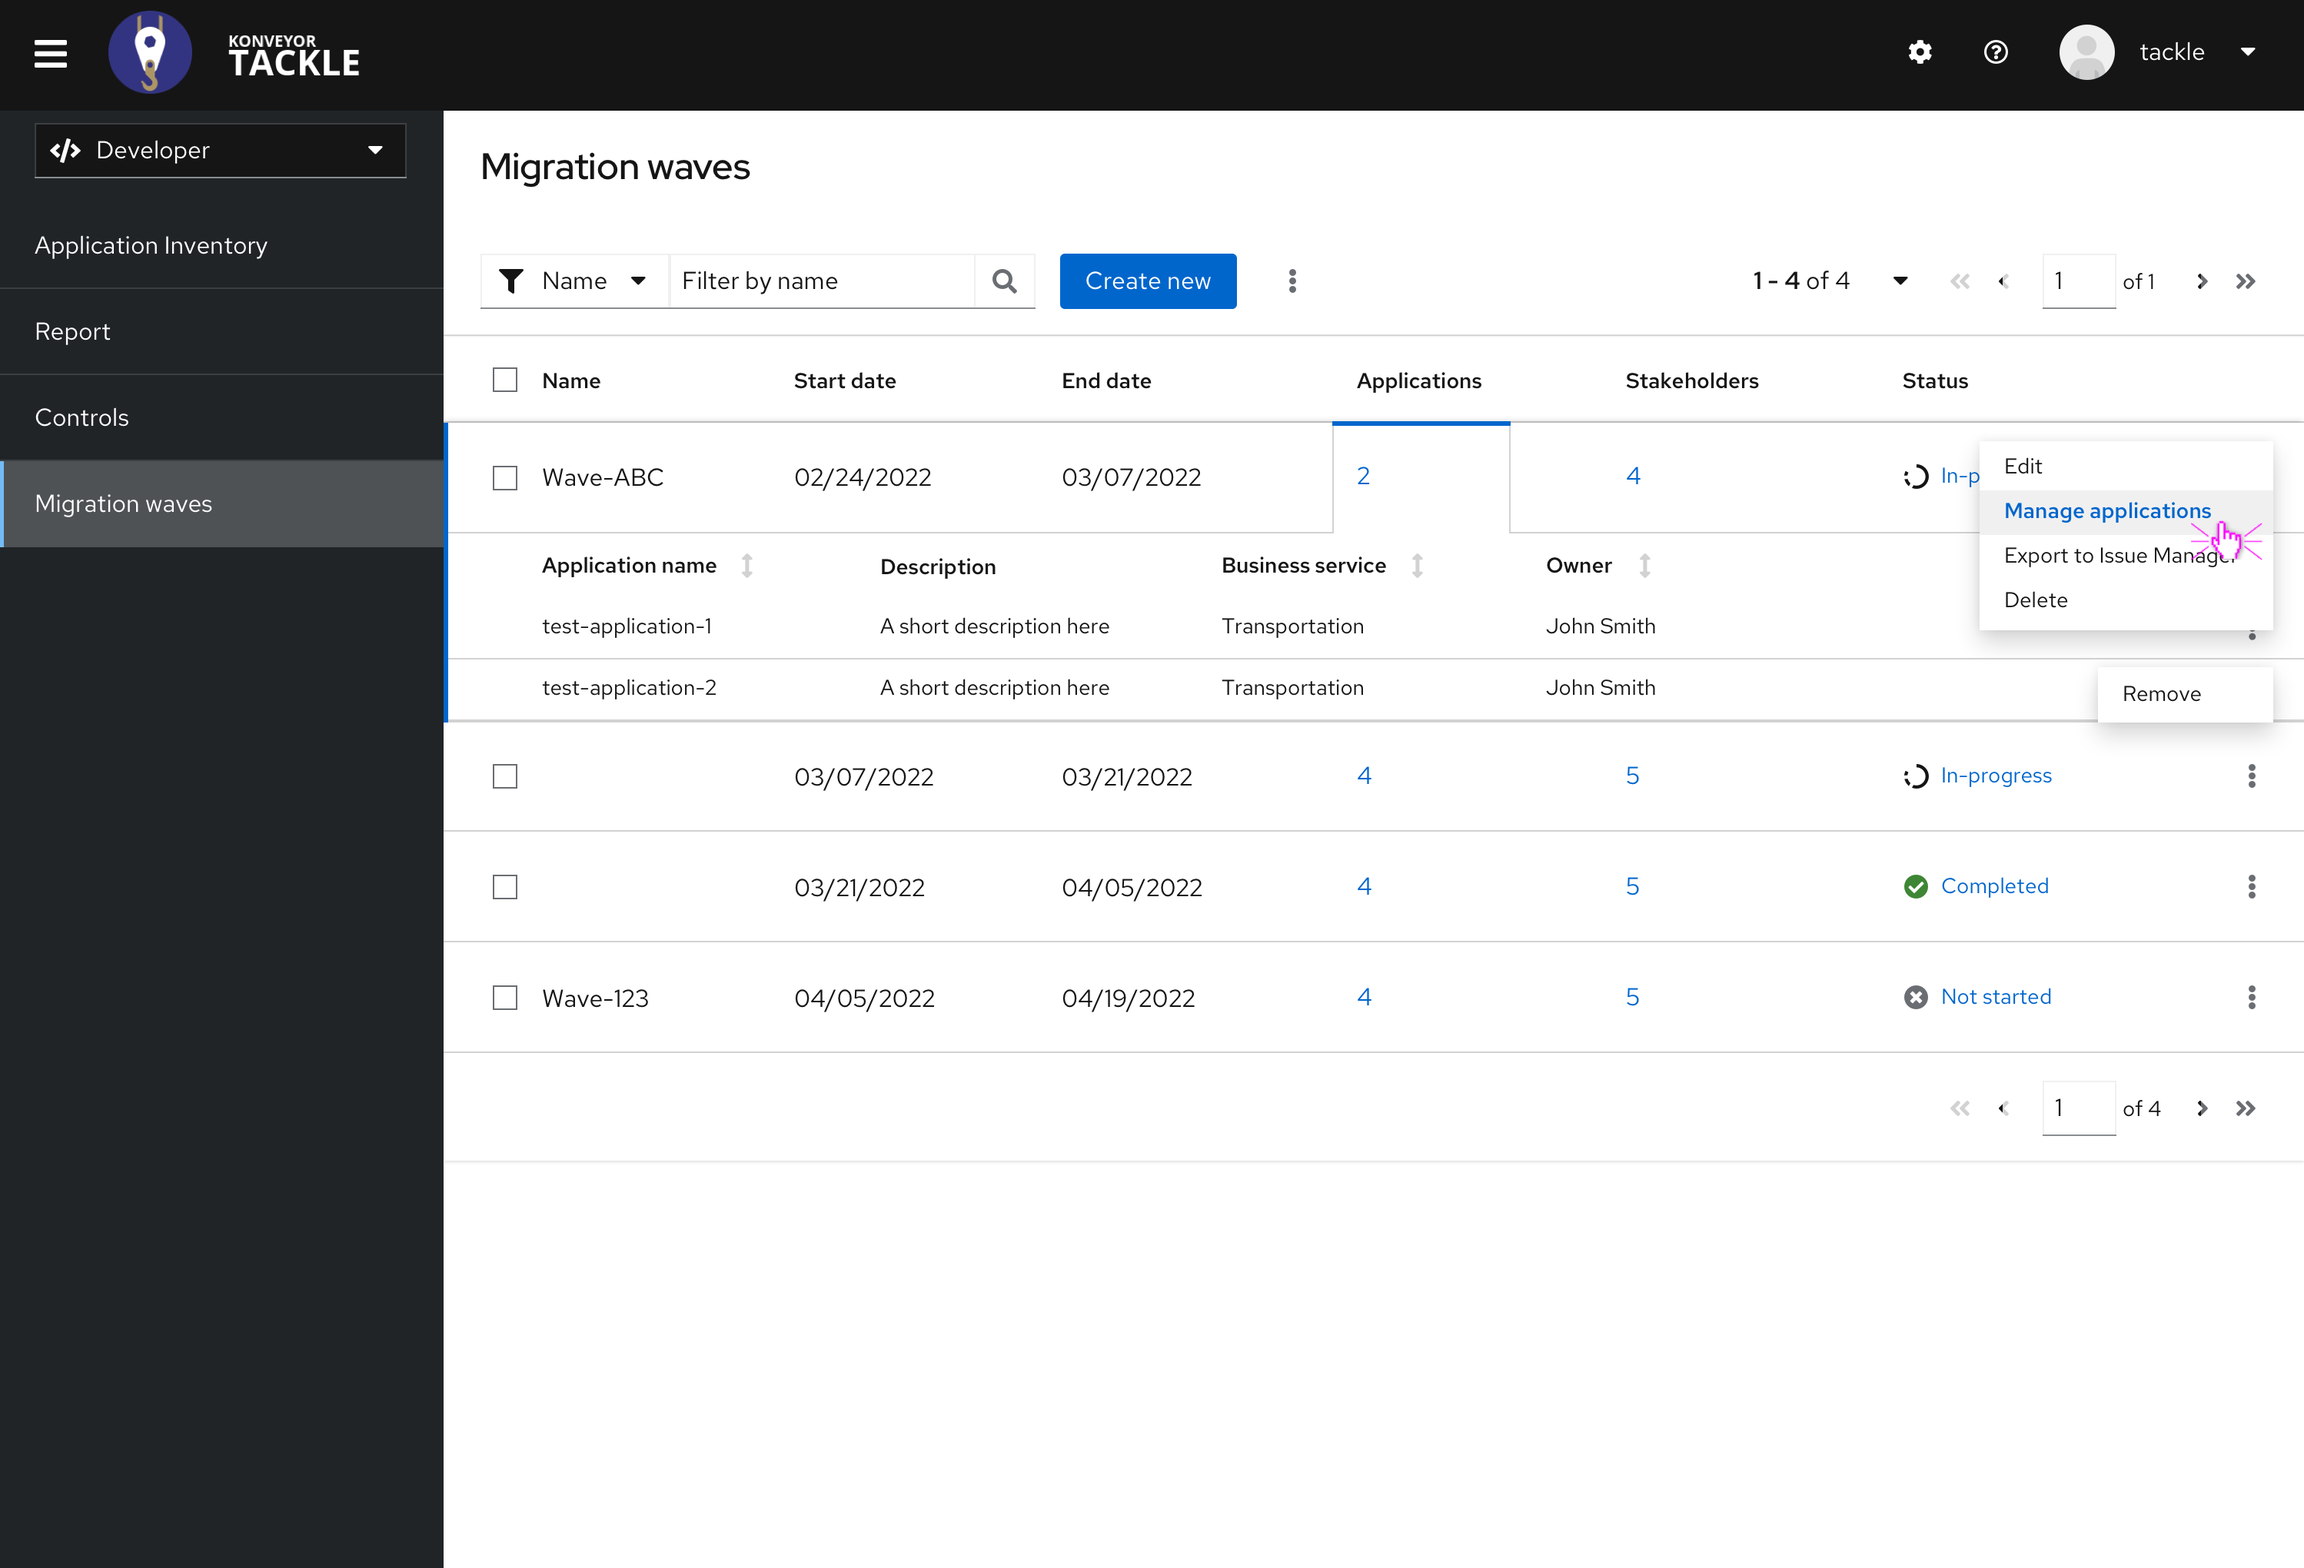
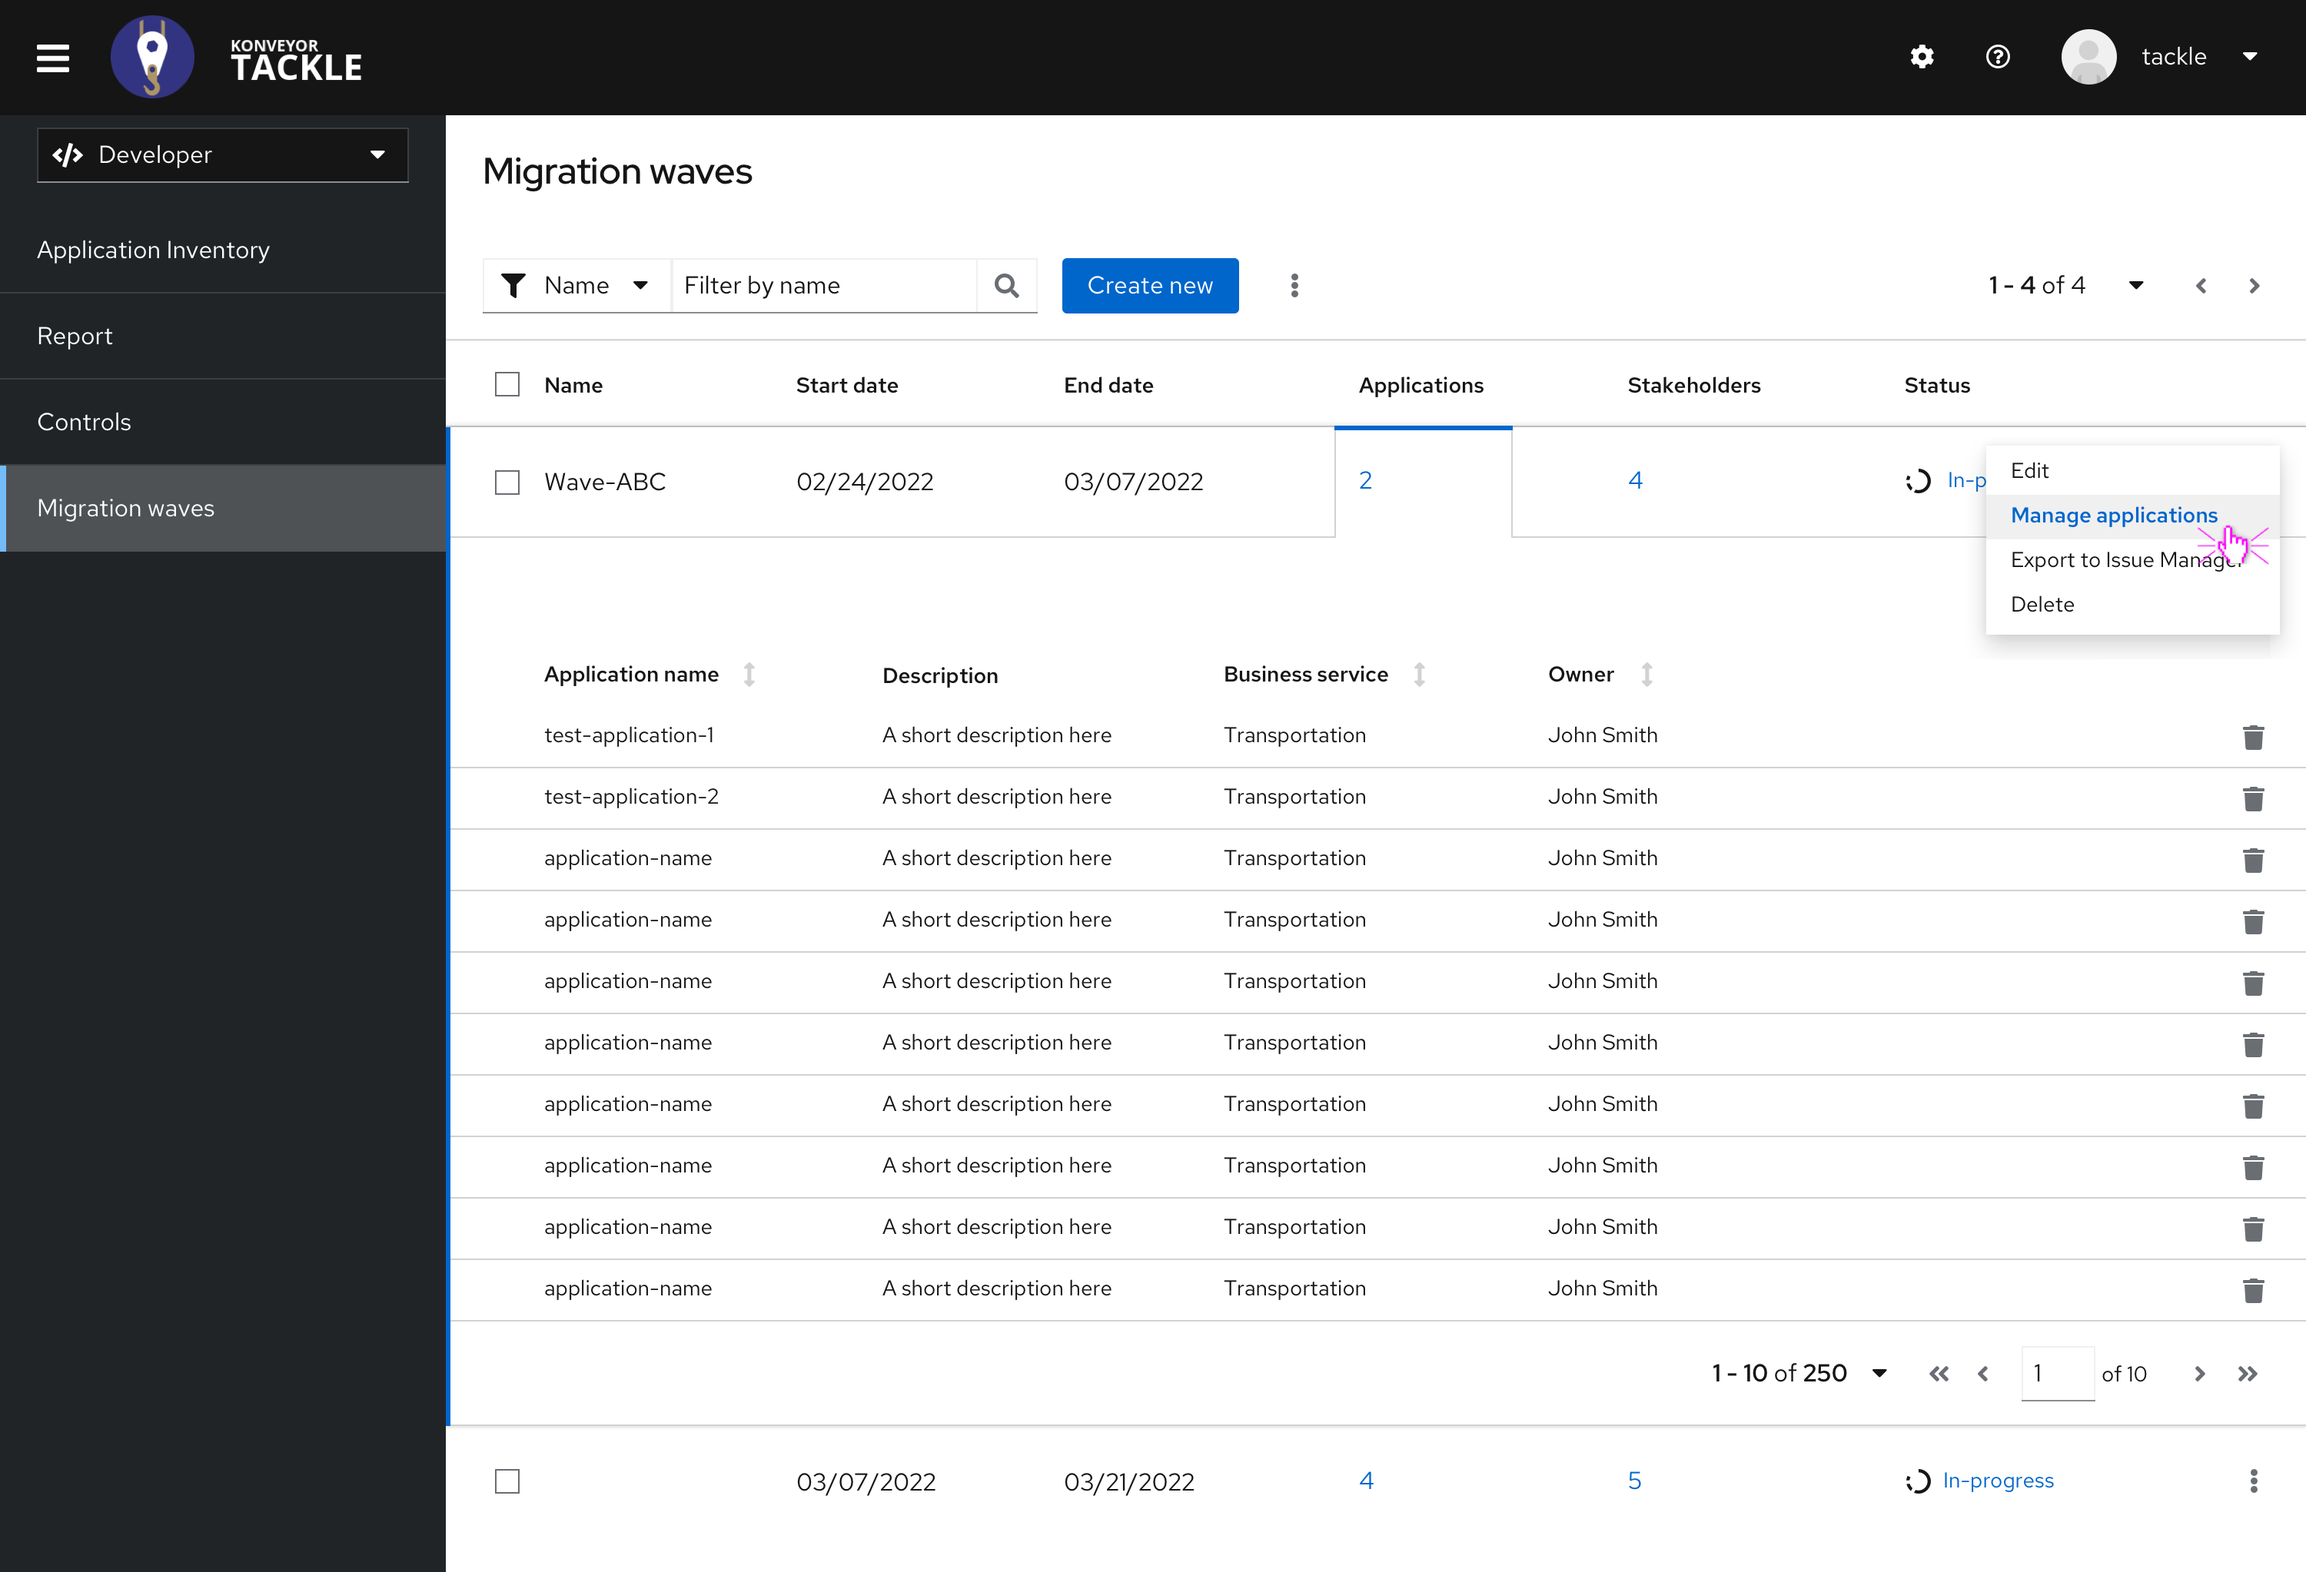
Updated mockups for the Migration Waves view and refined specification

diff --git a/enhancements/migration-waves/README.md b/enhancements/migration-waves/README.md
@@ -6,10 +6,11 @@ reviewers:
   - "@jortel"
   - "@mansam"
   - "@jwmatthews"
+  - "@ibolton336"
 approvers:
   - "jortel"
 creation-date: 2022-12-16
-last-updated: 2022-12-16
+last-updated: 2023-02-03
 status: provisional
 see-also:
   - "[tackle-jira-integration](https://github.com/konveyor/enhancements/pull/85)"   
@@ -31,7 +32,7 @@ superseded-by:
 
 ## Open Questions
 
-- What happens with the "*Status*" compound expandable section of the Migration Waves view if no issue tracker is enabled?(See [tackle-jira-integration](https://github.com/konveyor/enhancements/pull/85))
+- ~~What happens with the "*Status*" compound expandable section of the Migration Waves view if no issue tracker is enabled?(See [tackle-jira-integration](https://github.com/konveyor/enhancements/pull/85))~~ **The "Status" section will only be displayed if there is at least one Issue Manager instance configured in the Konveyor instance**
 - What format will be used to load stakeholders that don't exist in the CSV import?
 
 ## Summary
@@ -69,7 +70,7 @@ A technical lead for the migration project that can create and modify applicatio
 
 #### Project Manager
 
-**New persona to create in Konveyor with this enhancement**. A management lead for the migration project that can create and modify migration waves but can only assign an owner and contributors to an application and applications to waves in the application inventory.
+**New persona to create in Konveyor with this enhancement**. A management lead for the migration project that can create and modify migration waves and assign applications to them but can only assign an owner and contributors to an application in the application inventory.
 
 
 ### User Stories
@@ -78,12 +79,12 @@ A technical lead for the migration project that can create and modify applicatio
 
 ##### AOC001
 
-*As an Architect and a Project Manager I want to be able to associate a stakeholder to an application as its owner*
+*As an Architect or a Project Manager I want to be able to associate a stakeholder to an application as its owner*
 
 
 ##### AOC002
 
-*As an Architect and a Project Manager I want to be able to associate stakeholders to an application as contributors*
+*As an Architect or a Project Manager I want to be able to associate stakeholders to an application as contributors*
 
 
 #### Migration Waves Management
@@ -163,7 +164,7 @@ The application creation view will include two new fields:
 ![Application Creation view](images/app-edition-fields.png?raw=true "Application Creation view")
 
 
-It is important to note that Project Managers should only be able to edit the Owner and Contributor fields, and the rest of the fields should appear disabled. Architects will have full access.
+It is important to note that **Project Managers should only be able to edit the Owner and Contributor fields, and the rest of the fields should appear disabled**. Architects will have full access.
 
 
 #### Migration Waves Management
@@ -191,7 +192,7 @@ A new option "*Migration Waves*" will be included in the left menu for the Devel
 - **Name**: Name of the migration wave. This field is optional and could appear empty.
 - **Start date**: Start date for the migration wave.
 - **End date**: End date for the migration wave.
-- **Application**: Compound expandable section with a nested table that includes the list of applications assigned to the migration wave. Each row will have a kebab menu with just one option, "*Remove*", to remove the application belonging to the row from the list of assigned applications to the migration wave. Each row will include the following fields from the application:
+- **Application**: Compound expandable section with a nested table that includes the list of applications assigned to the migration wave. Each row will have trashcan icon to remove the application belonging to the row from the list of assigned applications to the migration wave. Each row will include the following fields from the application:
   - *Application name*
   - *Description*
   - *Business service*
@@ -199,7 +200,7 @@ A new option "*Migration Waves*" will be included in the left menu for the Devel
 
 ![Migration Waves view - Applications](images/migration-waves-applications-compound.png?raw=true "Migration Waves view - Applications")
 
-- **Stakeholders**: Compound expandable section with a nested table that includes the list of stakeholders associated with a migration wave. This list will be automatically populated with all the owners and contributors to all the applications associated with the migration wave, and with any additional stakeholders that could have been associated directly to the migration wave on creation/edition or indirectly through the association of a determined stakeholder group. Just to clarify, **if a stakeholder group is associated to a migration wave on creation/edition, all of its members will appear in this list**. Each row will include the following fields:
+- **Stakeholders**: Compound expandable section with a nested table that includes the list of stakeholders associated with a migration wave. This list will be automatically populated with all the owners and contributors to all the applications assigned to the migration wave, and with any additional stakeholders that could have been associated directly to the migration wave on creation/edition or indirectly through the association of a determined stakeholder group. Just to clarify, **if a stakeholder group is associated to a migration wave on creation/edition, all of its members will appear in this list**. Each row will include the following fields:
 
   - *Name*
   - *Job Function*
@@ -209,7 +210,7 @@ A new option "*Migration Waves*" will be included in the left menu for the Devel
 
 ![Migration Waves view - Stakeholders](images/migration-waves-stakeholders-compound.png?raw=true "Migration Waves view - Stakeholders")
 
-- **Status**: Compound expandable section for the migration waves to reflect status data. This section is explained in depth in the related [tackle-jira-integration](https://github.com/konveyor/enhancements/pull/85) enhancement.
+- **Status**: Compound expandable section for the migration waves to reflect status data. This section is explained in depth in the related [tackle-jira-integration](https://github.com/konveyor/enhancements/pull/85) enhancement. **This section will only be displayed if there is at least one Issue Manager configured in the Konveyor instance**
 
 ![Migration Waves view - Status](images/migration-waves-status-compound.png?raw=true "Migration Waves view - Status")
 
@@ -225,8 +226,8 @@ New migration waves can be created by clicking on the button "Create new" at the
 - **Name**: Optional. String with the name of the wave.
 - **Start date**: Mandatory. Date picker.
 - **End date**: Mandatory. Date picker.
-- **Stakeholders**: Optional. Dropdown, multiple selection. Values will be the list of available stakeholders in the instance. Stakeholders to associate directly to the migration wave. When an application is assigned to a migration wave, all of its associated stakeholders get transitively associated to the wave. By associating them directly through this field, they will appear with no role in the Stakeholders compound expandable section.
-- **Stakeholder Groups**: Optional. Dropdown, multiple selection. Values will be the list of available stakeholder groups in the instance. Stakeholder groups to associate directly to the migration wave. By associating a Stakeholder Group to a migration wave through this field, all the associated stakeholders in the group will appear with no role in the Stakeholders compound expandable section.
+- **Stakeholders**: Optional. Dropdown, multiple selection. Values will be the list of available stakeholders in the instance. Stakeholders to associate directly to the migration wave. When an application is assigned to a migration wave, all of its associated stakeholders get transitively associated to the wave. By associating them directly through this field, they will appear with no role in the Stakeholders compound expandable section, unless they are transitively associated by an application, in which case the role will be displayed.
+- **Stakeholder Groups**: Optional. Dropdown, multiple selection. Values will be the list of available stakeholder groups in the instance. Stakeholder groups to associate directly to the migration wave. By associating a Stakeholder Group to a migration wave through this field, all the associated stakeholders in the group will appear with no role in the Stakeholders compound expandable section, unless they are transitively associated by an application, in which case the role will be displayed.
 
 ![Migration Waves view - Create wave](images/migration-waves-create.png?raw=true "Migration Waves view - Create wave")
 
@@ -256,7 +257,7 @@ Clicking in the option will open a modal window with a table displaying all appl
 
 ![Migration Waves view - Manage Applications](images/manage-applications-modal.png?raw=true "Migration Waves view - Manage Applications")
 
-The "*Selected wave*" field on top won't be modifiable and will only display the name or the range for the selected wave in case it doesn't have a name. As in the "*Applications*" coumpound expandable session from the main table in the Migration Waves view, the table will display the following fields on each application row:
+The "*Selected wave*" field on top won't be modifiable and will only display the name or the range for the selected wave in case it doesn't have a name. As in the "*Applications*" compound expandable session from the main table in the Migration Waves view, the table will display the following fields on each application row:
 
 - *Application name*
 - *Description*
